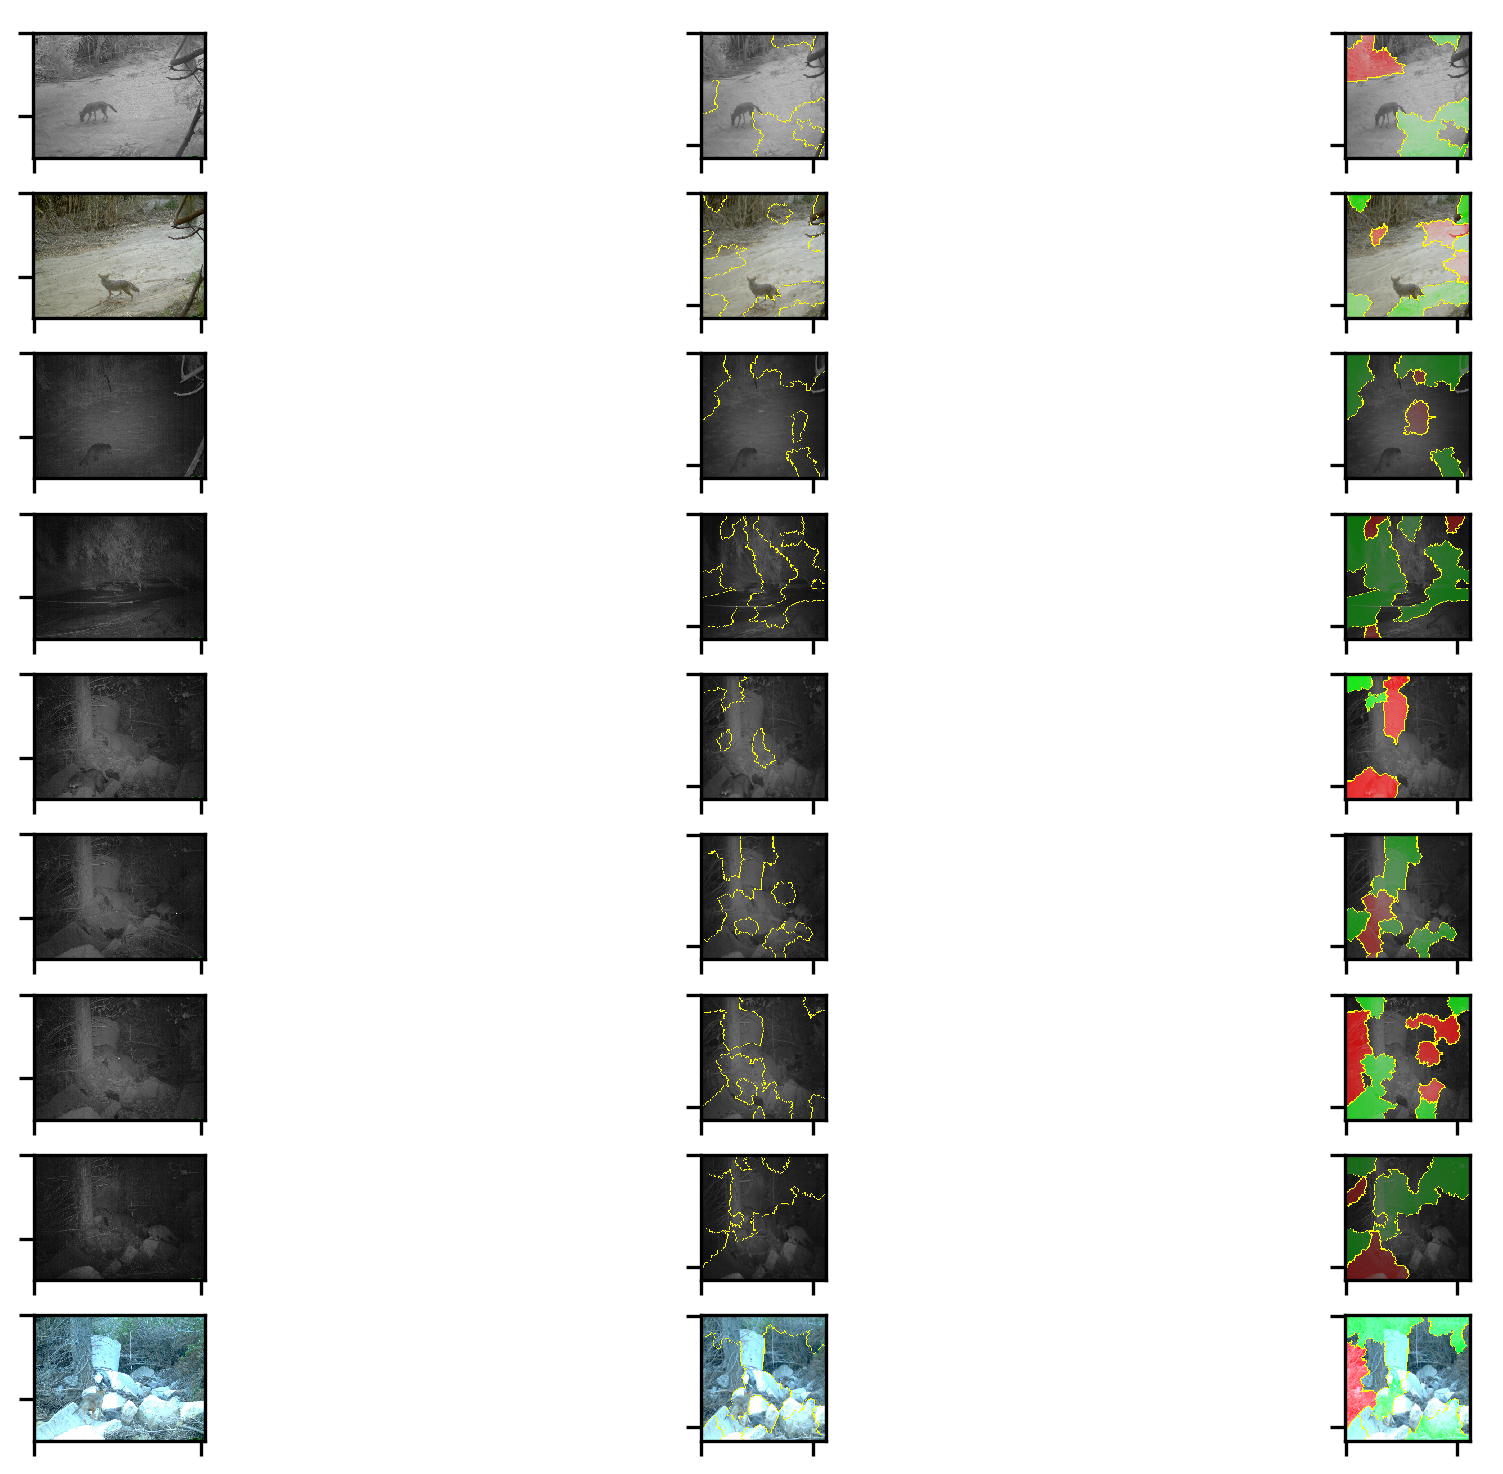
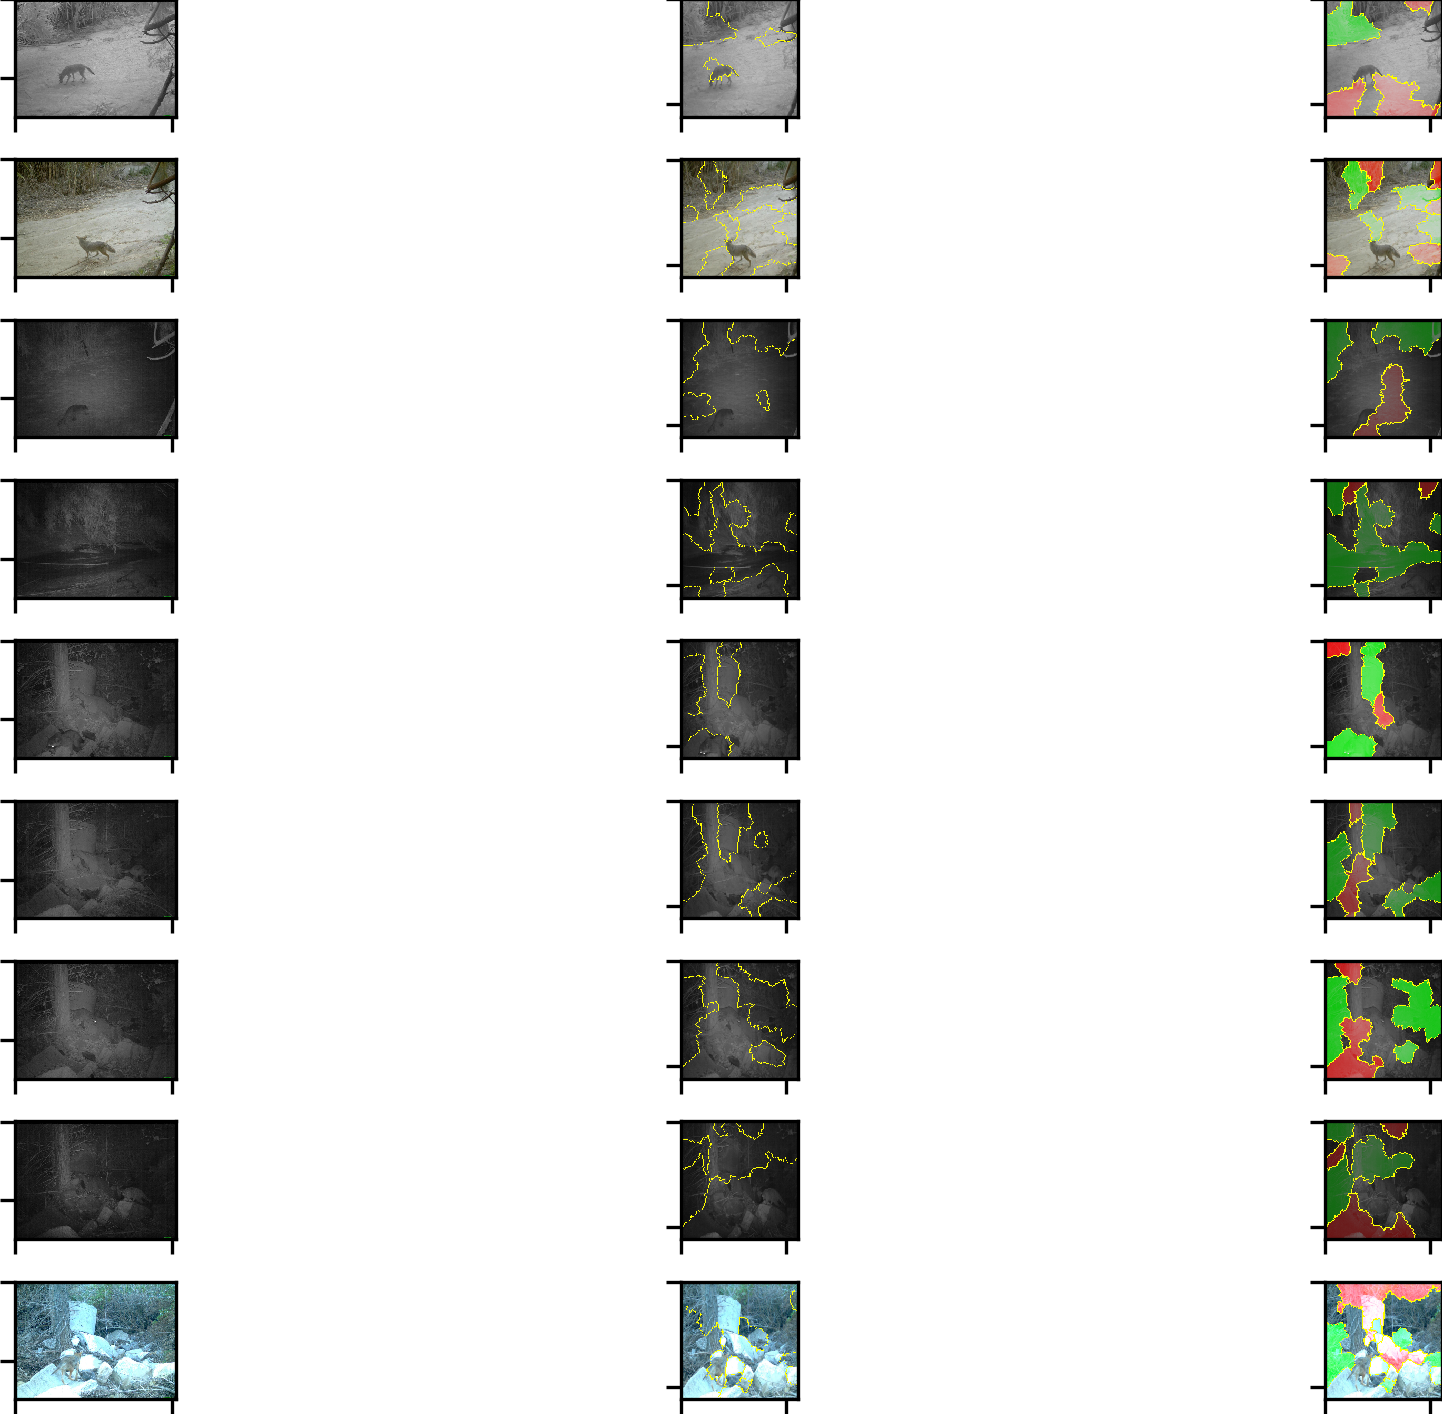
LIME gives consistent results but need to figure prob issues

Changed region(s): [[0.8738, 0.0, 1.0, 1.0], [0.0, 0.0, 0.156, 1.0], [0.4369, 0.0, 0.5617, 1.0]]

diff --git a/experiments/invariant-risk-minimization/wildcam/model_explanation.py b/experiments/invariant-risk-minimization/wildcam/model_explanation.py
@@ -1,20 +1,18 @@
 import matplotlib
-matplotlib.use('Agg')
-
 import matplotlib.pyplot as plt
-from matplotlib.backends.backend_pdf import PdfPages
 import matplotlib.gridspec as gridspec
+
+import numpy as np
+import os, json
+
 import torch
 import torch.nn as nn
 import torch.nn.functional as F
-import numpy as np
-import os, json
 
 from torchvision import models, transforms
 from torch.autograd import Variable
 from PIL import Image
 from models import get_net
-
 from lime import lime_image
 from skimage.segmentation import mark_boundaries
 
@@ -50,8 +48,9 @@ def batch_predict(images):
     batch = batch.to(device)
     
     logits = model(batch)
-    #probs = torch.sigmoid(logits)
-    probs = torch.cat((1-torch.sigmoid(logits), torch.sigmoid(logits)), 1)
+    probs = torch.sigmoid(logits)
+    # if you don't pass 2 probs, LIME always classifies all examples in the coyote category
+    #probs = torch.cat((1-torch.sigmoid(logits), torch.sigmoid(logits)), 1)
     return probs.detach().cpu().numpy()
 
 def generate_explanations(images, outfile, num_samples, num_features, seed=123):
@@ -63,7 +62,7 @@ def generate_explanations(images, outfile, num_samples, num_features, seed=123):
     i = 0
     for img in images:
         img = get_image(img)
-        explainer = lime_image.LimeImageExplainer()
+        explainer = lime_image.LimeImageExplainer(feature_selection='lasso_path', verbose=True, random_state=123)
     
         explanation = explainer.explain_instance(np.array(pill_transf(img)), 
                                          batch_predict, # classification function
@@ -71,6 +70,7 @@ def generate_explanations(images, outfile, num_samples, num_features, seed=123):
                                          hide_color=0, 
                                          num_samples=num_samples, # number of images that will be sent to classification function
                                          random_seed=seed) 
+        print("label: ", explanation.top_labels[0])
         temp, mask = explanation.get_image_and_mask(explanation.top_labels[0], 
                                             positive_only=True, 
                                             num_features=num_features[i], hide_rest=False)
@@ -94,9 +94,8 @@ def generate_explanations(images, outfile, num_samples, num_features, seed=123):
         f_ax3.set_yticklabels([])
         f_ax3.set_xticklabels([])
         #f_ax1.set_title("label: "+str(explanation.top_labels[0]), fontsize=5)
-
         i += 1
-    plt.savefig(outfile, dpi=300, bbox_inches='tight') # To save figure
+    plt.savefig(outfile, dpi=300, bbox_inches='tight', pad_inches=0) # To save figure
     plt.show() # To show figure
 
 
@@ -111,7 +110,17 @@ if __name__ == "__main__":
 
     pill_transf = get_pil_transform()
     preprocess_transform = get_preprocess_transform()
-
+    '''
+    generate_explanations(images = 
+                          ['../../../data/wildcam_subset_sample/train_46/coyote/59817c02-23d2-11e8-a6a3-ec086b02610b.jpg'], 
+                          outfile='./figures/IRM_coyote_explanation.png', 
+                          num_samples=1000, num_features=[5], seed=123)
+    generate_explanations(images = 
+                          ['../../../data/wildcam_subset_sample/train_46/raccoon/59c669d3-23d2-11e8-a6a3-ec086b02610b.jpg'], 
+                          outfile='./figures/IRM_raccoon_explanation.png', 
+                          num_samples=1000, num_features=[10], seed=123)
+    '''
+    '''
     generate_explanations(images = 
                           ['../../../data/wildcam_subset_sample/train_46/coyote/59817c02-23d2-11e8-a6a3-ec086b02610b.jpg',
                            '../../../data/wildcam_subset_sample/train_46/coyote/59e77deb-23d2-11e8-a6a3-ec086b02610b.jpg',
@@ -124,6 +133,7 @@ if __name__ == "__main__":
                            '../../../data/wildcam_subset_sample/test/coyote/592c4d30-23d2-11e8-a6a3-ec086b02610b.jpg'], 
                           outfile='./figures/IRM_results.png', 
                           num_samples=1000, num_features=[5, 10, 10, 15, 5, 10, 15, 10, 15], seed=123)
+    
     '''
     generate_explanations(images = 
                           ['../../../data/wildcam_subset_sample/train_46/coyote/59817c02-23d2-11e8-a6a3-ec086b02610b.jpg',
@@ -137,4 +147,4 @@ if __name__ == "__main__":
                            '../../../data/wildcam_subset_sample/test/coyote/592c4d30-23d2-11e8-a6a3-ec086b02610b.jpg'], 
                           outfile='./figures/ERM_results.png', 
                           num_samples=1000, num_features=[5, 10, 10, 15, 5, 10, 15, 10, 15], seed=123)
-   '''
+   
